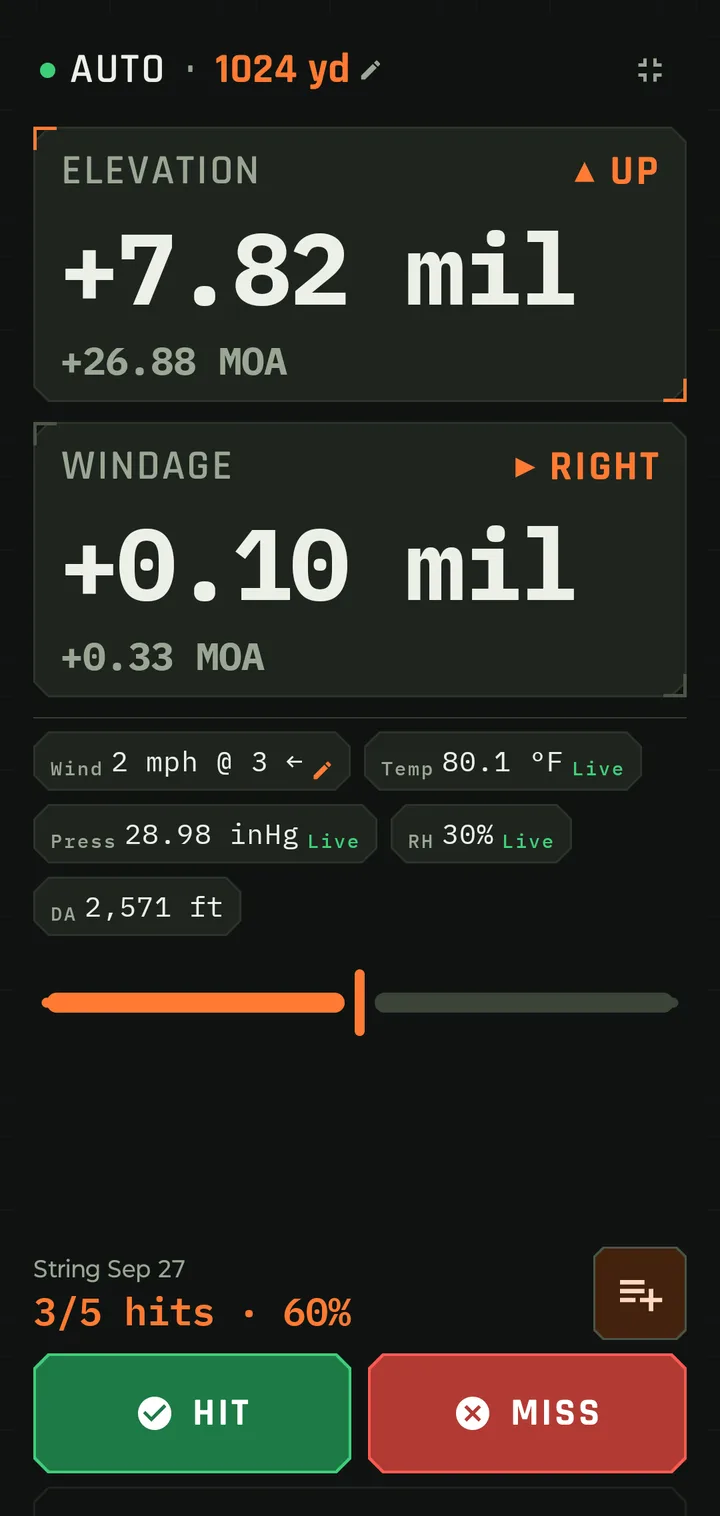
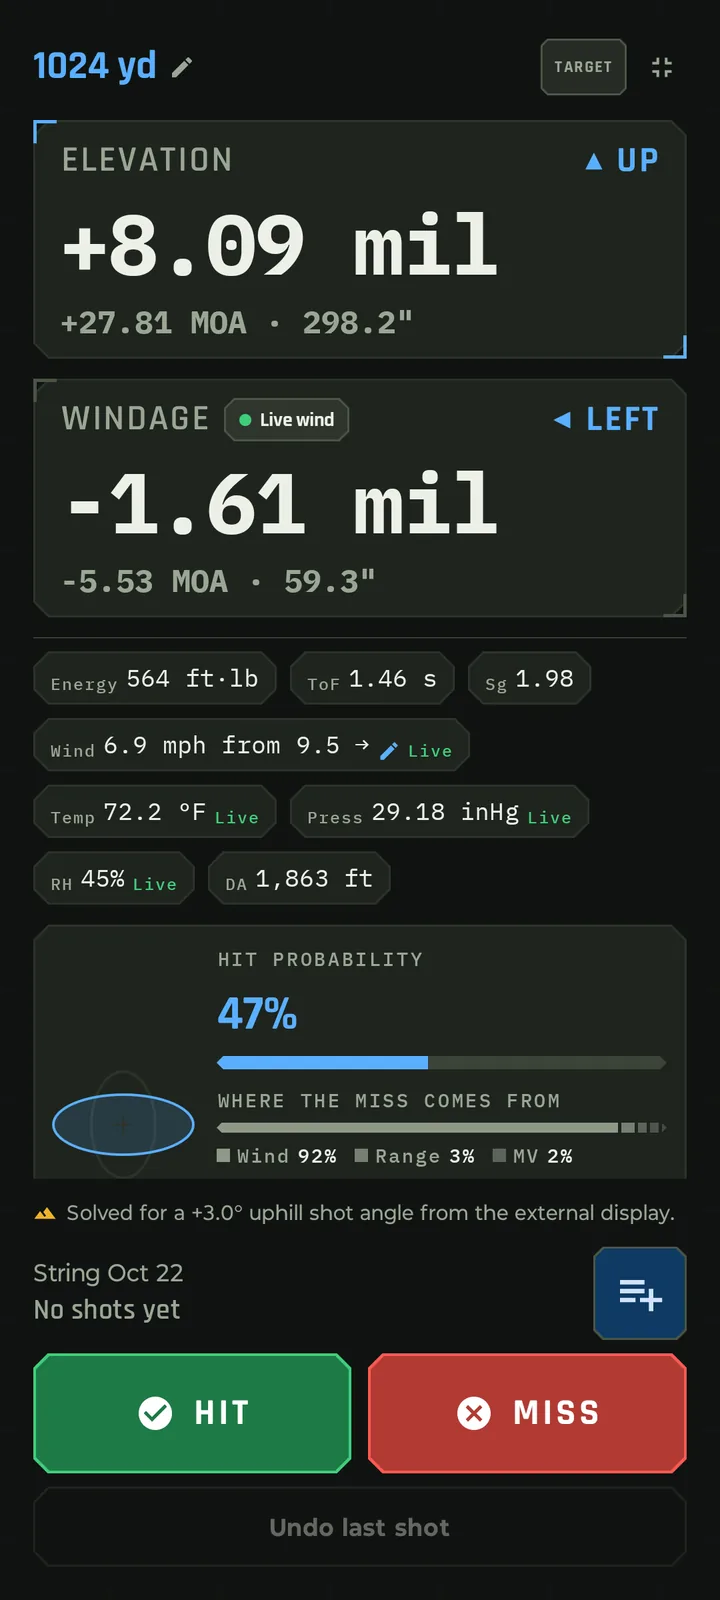
Home: new solver screenshot in the top hero
Replaces solution-live.webp with the Oct 27 solution card (1,024 yd,
8.09 mil up, 1.61 mil left, live wind 6.9 mph, 47% hit probability),
now 720x1600. The readout strip below the hero and the alt text
match the new card.

diff --git a/_pages/home.html b/_pages/home.html
@@ -148,7 +148,7 @@
         </div>
       </div>
       <div class="frame">
-        <img src="{{ROOT}}assets/img/solution-live.webp" width="720" height="1516" alt="The solution card at 1,024 yards: elevation 7.82 mil up and windage 0.10 mil right. Wind, temperature, pressure and humidity are marked Live. Hit and Miss buttons at the bottom.">
+        <img src="{{ROOT}}assets/img/solution-live.webp" width="720" height="1600" alt="The solution card at 1,024 yards: elevation 8.09 mil up and windage 1.61 mil left, with live wind at 6.9 mph. Wind, temperature, pressure and humidity are marked Live. A 47% hit probability with wind as 92% of the miss, a note that it solved for a 3.0° uphill shot angle from the external display, and Hit and Miss buttons at the bottom.">
       </div>
     </div>
   </section>
@@ -156,10 +156,10 @@
   <div class="readout" aria-label="Solver output at 1,024 yards">
     <div class="wrap">
       <div class="cells">
-        <div><div class="label">1,024 yd · Elevation</div><div class="v"><em>▲</em> 7.82 mil</div></div>
-        <div><div class="label">2 mph live · Windage</div><div class="v"><em>▶</em> 0.10 mil</div></div>
-        <div><div class="label">Density altitude</div><div class="v">2,571 ft</div></div>
-        <div><div class="label">Air temperature</div><div class="v">80.1 °F</div></div>
+        <div><div class="label">1,024 yd · Elevation</div><div class="v"><em>▲</em> 8.09 mil</div></div>
+        <div><div class="label">6.9 mph live · Windage</div><div class="v"><em>◀</em> 1.61 mil</div></div>
+        <div><div class="label">Density altitude</div><div class="v">1,863 ft</div></div>
+        <div><div class="label">Air temperature</div><div class="v">72.2 °F</div></div>
       </div>
       <p class="readout-note">6GT, 109 gr Berger, G7 .292, 96 yd zero. Wind from a Calypso Ultrasonic; temperature, pressure and humidity from a Calypso WeatherDot. Captured on the phone at the range, as on the card above.</p>
     </div>

diff --git a/index.html b/index.html
@@ -221,7 +221,7 @@
         </div>
       </div>
       <div class="frame">
-        <img src="assets/img/solution-live.webp" width="720" height="1516" alt="The solution card at 1,024 yards: elevation 7.82 mil up and windage 0.10 mil right. Wind, temperature, pressure and humidity are marked Live. Hit and Miss buttons at the bottom.">
+        <img src="assets/img/solution-live.webp" width="720" height="1600" alt="The solution card at 1,024 yards: elevation 8.09 mil up and windage 1.61 mil left, with live wind at 6.9 mph. Wind, temperature, pressure and humidity are marked Live. A 47% hit probability with wind as 92% of the miss, a note that it solved for a 3.0° uphill shot angle from the external display, and Hit and Miss buttons at the bottom.">
       </div>
     </div>
   </section>
@@ -229,10 +229,10 @@
   <div class="readout" aria-label="Solver output at 1,024 yards">
     <div class="wrap">
       <div class="cells">
-        <div><div class="label">1,024 yd · Elevation</div><div class="v"><em>▲</em> 7.82 mil</div></div>
-        <div><div class="label">2 mph live · Windage</div><div class="v"><em>▶</em> 0.10 mil</div></div>
-        <div><div class="label">Density altitude</div><div class="v">2,571 ft</div></div>
-        <div><div class="label">Air temperature</div><div class="v">80.1 °F</div></div>
+        <div><div class="label">1,024 yd · Elevation</div><div class="v"><em>▲</em> 8.09 mil</div></div>
+        <div><div class="label">6.9 mph live · Windage</div><div class="v"><em>◀</em> 1.61 mil</div></div>
+        <div><div class="label">Density altitude</div><div class="v">1,863 ft</div></div>
+        <div><div class="label">Air temperature</div><div class="v">72.2 °F</div></div>
       </div>
       <p class="readout-note">6GT, 109 gr Berger, G7 .292, 96 yd zero. Wind from a Calypso Ultrasonic; temperature, pressure and humidity from a Calypso WeatherDot. Captured on the phone at the range, as on the card above.</p>
     </div>
